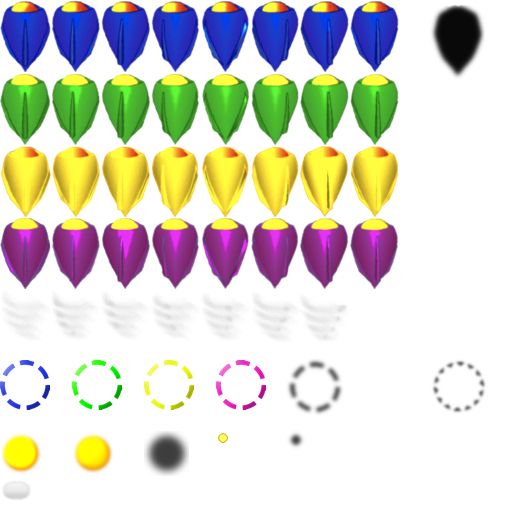
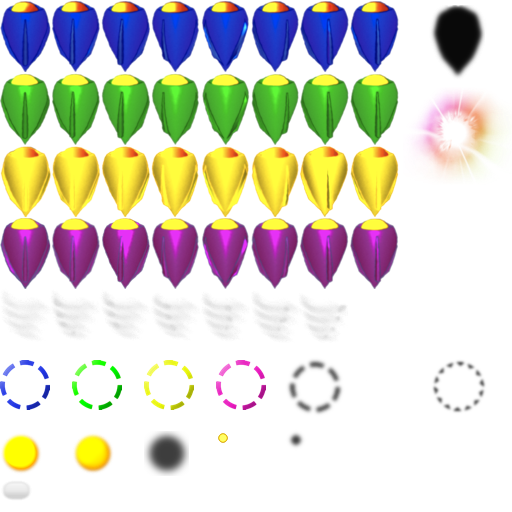
greed: shockwaves (visual only)

Changed region(s): [[0.8125, 0.1875, 0.9688, 0.3438]]

diff --git a/dgreed/apps/greed/game.c b/dgreed/apps/greed/game.c
@@ -41,6 +41,7 @@ RectF platform_shadow_rect;
 RectF bullet_rect;
 RectF bullet_shadow_rect;
 RectF energybar_rects[3]; // start, end, middle
+RectF shockwave_rect;
 
 // Game state
 uint n_ships;
@@ -78,6 +79,8 @@ float start_anim_obj_fadein = 0.3f;
 float start_anim_obj_size = 2.0f;
 float bullet_cost = 1.0f;
 float bullet_damage = 0.8f;
+float shockwave_min_size = 0.5f;
+float shockwave_max_size = 3.0f;
 
 const Color ship_colors[] = {
 	COLOR_RGBA(33, 48, 189, 255),
@@ -107,6 +110,41 @@ const float ship_shard_angles[] = {
 // Devmode switches
 bool draw_physics_debug = false;
 bool draw_ai_debug = false;
+
+#define WRAPAROUND_DRAW(x_min, x_max, y_min, y_max, pos, action) \
+	if(pos.x < x_min) { 										 \
+		Vector2 npos = vec2(pos.x + (float)SCREEN_WIDTH, pos.y); \
+		action;													 \
+		if(pos.y < y_min) {										 \
+			npos.y += (float)SCREEN_HEIGHT;						 \
+			action;												 \
+		}														 \
+		if(pos.y > y_max) {										 \
+			npos.y -= (float)SCREEN_HEIGHT;						 \
+			action;												 \
+		}														 \
+	}															 \
+	if(pos.x > x_max) {											 \
+		Vector2 npos = vec2(pos.x - (float)SCREEN_WIDTH, pos.y); \
+		action;													 \
+		if(pos.y < y_min) {										 \
+			npos.y += (float)SCREEN_HEIGHT;						 \
+			action;												 \
+		}														 \
+		if(pos.y > y_max) {										 \
+			npos.y -= (float)SCREEN_HEIGHT;						 \
+			action;												 \
+		}														 \
+	}															 \
+	if(pos.y < y_min) {											 \
+		Vector2 npos = vec2(pos.x, pos.y + (float)SCREEN_HEIGHT);\
+		action;													 \
+	}															 \
+	if(pos.y > y_max) {											 \
+		Vector2 npos = vec2(pos.x, pos.y - (float)SCREEN_HEIGHT);\
+		action;													 \
+	}												
+
 
 #define GAME_TWEAK(name, min, max) \
 	tweaks_float(tweaks, #name, &name, min, max)
@@ -141,6 +179,8 @@ void game_register_tweaks(Tweaks* tweaks) {
 	GAME_TWEAK(start_anim_obj_size, 0.1f, 10.0f);
 	GAME_TWEAK(bullet_cost, 0.0f, 10.0f);
 	GAME_TWEAK(bullet_damage, 0.0f, 10.0f);
+	GAME_TWEAK(shockwave_min_size, 0.1f, 5.0f);
+	GAME_TWEAK(shockwave_max_size, 0.1f, 5.0f);
 }
 
 void game_init(void) {
@@ -194,6 +234,8 @@ void game_init(void) {
 	energybar_rects[0] = rectf(0.0f, 480.0f, 11.0f, 480.0f + 21.0f);
 	energybar_rects[1] = rectf(11.0f, 480.0f, 21.0f, 480.0f + 21.0f);
 	energybar_rects[2] = rectf(21.0f, 480.0f, 32.0f, 480.0f + 21.0f);
+
+	shockwave_rect = rectf(400.0f, 80.0f, 400.0f + 110.f, 80.0f + 110.0f);
 
 	// Shards
 	for(uint i = 0; i < SHIP_COLORS; ++i) {
@@ -527,6 +569,25 @@ void _draw_shattered_ship(uint ship, float t) {
 	float rot = physics_state.ships[ship].rot;
 	float scale = physics_state.ships[ship].scale;
 
+	// Shockwave
+	Color shockwave_color = color_lerp(
+		COLOR_WHITE, COLOR_WHITE & 0xFFFFFF,
+		sinf(t * 3.1415f / 2.0f)
+	);
+	float shockwave_size = lerp(shockwave_min_size, shockwave_max_size, t);
+	gfx_draw_textured_rect(atlas1, OBJECTS_LAYER, &shockwave_rect,
+		&pos, rot, shockwave_size, shockwave_color);
+
+	float x_min = shockwave_size * rectf_width(&shockwave_rect) / 2.0f;
+	float x_max = (float)SCREEN_WIDTH - x_min;
+	float y_min = x_min;
+	float y_max = (float)SCREEN_HEIGHT - y_min;
+
+	// Virtual shockwaves on screen boundries
+	WRAPAROUND_DRAW(x_min, x_max, y_min, y_max, pos, 
+		gfx_draw_textured_rect(atlas1, OBJECTS_LAYER, &shockwave_rect,
+			&npos, rot, shockwave_size, shockwave_color));
+
 	float escale = scale + sqrtf(t) * 1.5f;
 
 	Vector2 rot_offset = vec2_rotate(vec2(17.5f*escale, 17.5f*escale), rot);
@@ -538,10 +599,10 @@ void _draw_shattered_ship(uint ship, float t) {
 	memcpy(offsets, ship_shard_offsets, sizeof(offsets));
 	gfx_transform(offsets, SHIP_SHARDS, &pos, rot, escale);
 
-	float x_min = 0.0f;
-	float x_max = (float)SCREEN_WIDTH;
-	float y_min = 0.0f;
-	float y_max = (float)SCREEN_HEIGHT;
+	x_min = 0.0f;
+	x_max = (float)SCREEN_WIDTH;
+	y_min = 0.0f;
+	y_max = (float)SCREEN_HEIGHT;
 
 	Color c = color_lerp(COLOR_WHITE, COLOR_TRANSPARENT, t*t*t*t);
 	float s = 35.0f * scale;
@@ -676,39 +737,8 @@ void game_render(void) {
 		float y_max = (float)SCREEN_HEIGHT - y_min;
 
 		// Virtual ships on screen boundries
-		if(pos.x < x_min) {
-			Vector2 npos = vec2(pos.x + (float)SCREEN_WIDTH, pos.y);
-			_draw_ship(&npos, ship);
-			if(pos.y < y_min) {
-				npos.y += (float)SCREEN_HEIGHT;
-				_draw_ship(&npos, ship);
-			}
-			if(pos.y > y_max) {
-				npos.y -= (float)SCREEN_HEIGHT;
-				_draw_ship(&npos, ship);
-			}	
-		}
-		if(pos.x > x_max) {
-			Vector2 npos = vec2(pos.x - (float)SCREEN_WIDTH, pos.y);
-			_draw_ship(&npos, ship);
-			if(pos.y < y_min) {
-				npos.y += (float)SCREEN_HEIGHT;
-				_draw_ship(&npos, ship);
-			}
-			if(pos.y > y_max) {
-				npos.y -= (float)SCREEN_HEIGHT;
-				_draw_ship(&npos, ship);
-			}	
-		}
-		if(pos.y < y_min) {
-			Vector2 npos = vec2(pos.x, pos.y + (float)SCREEN_HEIGHT);
-			_draw_ship(&npos, ship);
-		}
-		if(pos.y > y_max) {
-			Vector2 npos = vec2(pos.x, pos.y - (float)SCREEN_HEIGHT);
-			_draw_ship(&npos, ship);
-		}	
-
+		WRAPAROUND_DRAW(x_min, x_max, y_min, y_max, pos, _draw_ship(&npos, ship));
+	
 		// Energy bar
 		float max_len = (float)(SCREEN_WIDTH/n_ships) - energybar_spacing;
 		float normalized_energy = ship_states[ship].energy / energy_max;
